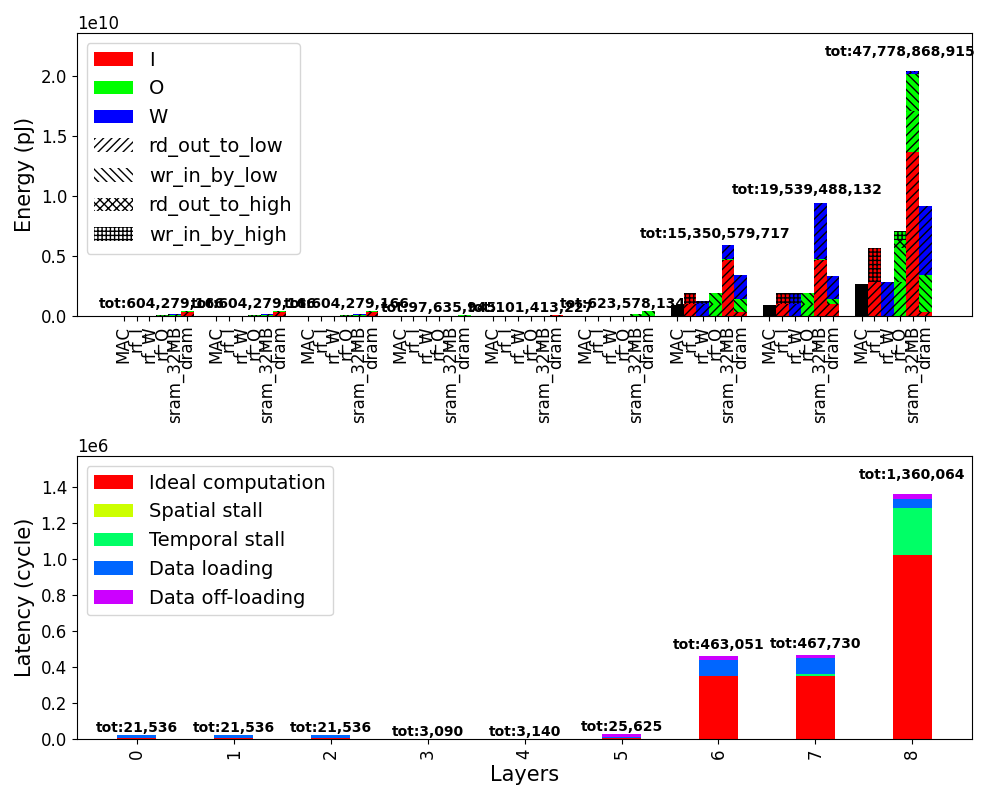
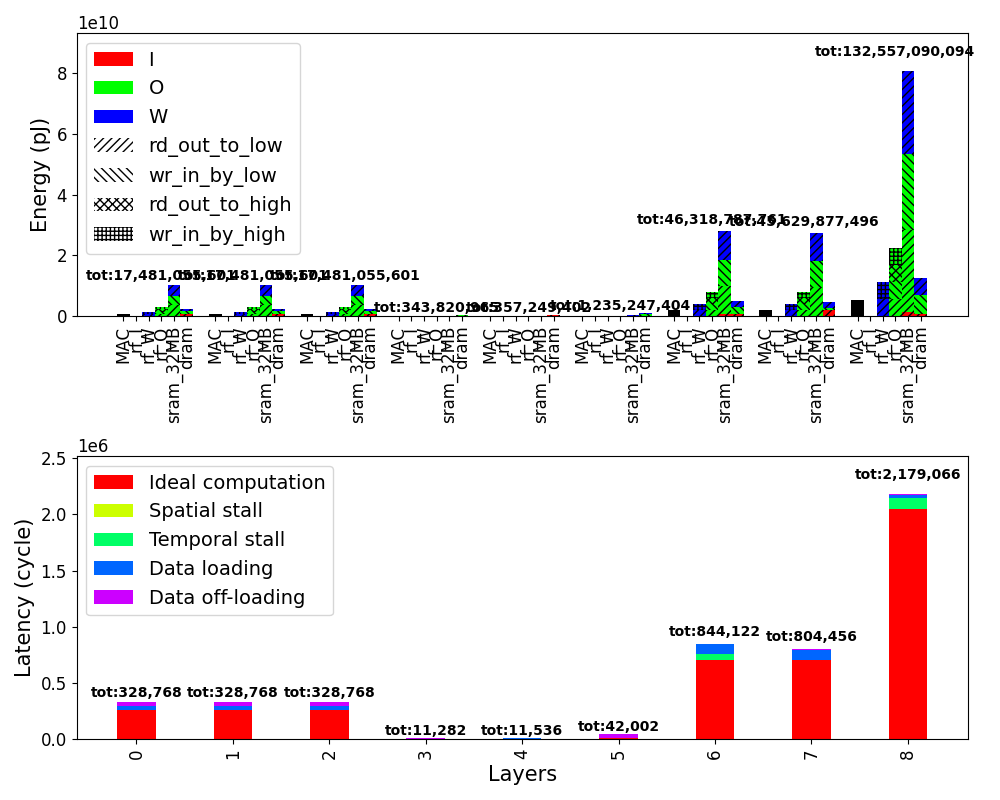
Make linear projections for all heads a single matmul, parameterize batch_size

diff --git a/src/config.py b/src/config.py
@@ -1,21 +1,21 @@
+from copy import deepcopy
 from dataclasses import dataclass
+
+BATCH_SIZE = 8
 
 
 class LLMConfig:
     def __init__(
         self,
-        batch_size: int,
         seq_len: int,
         embedding_dim: int,
         dim_ff: int,
         num_head: int,
         num_layer: int,
-        head_size: int | None = None,
+        batch_size: int = 1,
         vocab_size: int = 1000,
         name: str = "",
     ):
-        if head_size is None:
-            head_size = embedding_dim // num_head
 
         self.batch_size = batch_size
         self.seq_len = seq_len
@@ -23,24 +23,36 @@ class LLMConfig:
         self.dim_ff = dim_ff
         self.num_head = num_head
         self.num_layer = num_layer
-        self.head_size = head_size
+        self.head_size = embedding_dim // num_head
         self.vocab_size = vocab_size
-        self.name = name
+        self.__name = name
+
+    @property
+    def name(self):
+        return f"{self.__name}_B={self.batch_size}"
 
     def to_simulatable_config(self):
         """Return a new LLMConfig instance with reduced parameters to make the simulation go faster. The results
         can then be multiplied to get the actual energy/latency values"""
-        return LLMConfig(
-            batch_size=self.batch_size,
-            seq_len=self.seq_len // 2,  # Prefill half the context window
-            embedding_dim=self.embedding_dim,
-            dim_ff=self.dim_ff,
-            num_head=1,
-            num_layer=1,
-            # Recompute head size, consider 1 big MatMu for all heads simultaneously
-            vocab_size=self.vocab_size,
-            name=self.name,
-        )
+        cfg = deepcopy(self)
+        cfg.seq_len = cfg.seq_len // 2  # Prefill half the context window
+        cfg.num_layer = 1
+        cfg.num_head = 1  # Keep the original `head_size`!
+        return cfg
+
+    def get_post_simulation_factor(self, layer: str):
+        """The model is simulated with reduced parameters i.e. only one layer. This function returns the factor with
+        which the results for the given layer have to be multiplied in order to come to the result for the full model
+        Moreover, the results are normalized to a single inference instead of a full batch"""
+        if "_proj" in layer:
+            # K, Q, V and output projection
+            return 4 * self.num_layer / self.batch_size
+        elif "mul_" in layer:
+            return self.num_head * self.num_layer / self.batch_size
+        elif "feedforward_" in layer:
+            return self.num_layer / self.batch_size
+        else:
+            return 1
 
 
 @dataclass
@@ -58,7 +70,7 @@ W4A8 = QuantConfig(4, 8)
 W4A16 = QuantConfig(4, 16)
 
 LLAMA_1_7B = LLMConfig(
-    batch_size=1,
+    batch_size=BATCH_SIZE,
     seq_len=2048,
     embedding_dim=4096,
     dim_ff=11_008,
@@ -69,7 +81,7 @@ LLAMA_1_7B = LLMConfig(
 )
 
 LLAMA_1_13B = LLMConfig(
-    batch_size=1,
+    batch_size=BATCH_SIZE,
     seq_len=2048,
     embedding_dim=5120,
     dim_ff=13_824,
@@ -80,7 +92,7 @@ LLAMA_1_13B = LLMConfig(
 )
 
 LLAMA_1_30B = LLMConfig(
-    batch_size=1,
+    batch_size=BATCH_SIZE,
     seq_len=2048,
     embedding_dim=6_656,
     dim_ff=17_920,
@@ -91,7 +103,7 @@ LLAMA_1_30B = LLMConfig(
 )
 
 LLAMA_2_7B = LLMConfig(
-    batch_size=1,
+    batch_size=BATCH_SIZE,
     seq_len=4096,
     embedding_dim=4096,
     dim_ff=11_008,
@@ -102,7 +114,7 @@ LLAMA_2_7B = LLMConfig(
 )
 
 LLAMA_2_13B = LLMConfig(
-    batch_size=1,
+    batch_size=BATCH_SIZE,
     seq_len=4096,
     embedding_dim=5120,
     dim_ff=13_824,
@@ -114,7 +126,7 @@ LLAMA_2_13B = LLMConfig(
 
 
 OPT_125M = LLMConfig(
-    batch_size=1,
+    batch_size=BATCH_SIZE,
     seq_len=2048,
     embedding_dim=768,
     dim_ff=3072,
@@ -126,7 +138,7 @@ OPT_125M = LLMConfig(
 
 
 OPT_1_3B = LLMConfig(
-    batch_size=1,
+    batch_size=BATCH_SIZE,
     seq_len=2048,
     embedding_dim=2048,
     dim_ff=8_192,
@@ -137,7 +149,7 @@ OPT_1_3B = LLMConfig(
 )
 
 OPT_2_7B = LLMConfig(
-    batch_size=1,
+    batch_size=BATCH_SIZE,
     seq_len=2048,
     embedding_dim=2560,
     dim_ff=10240,
@@ -148,7 +160,7 @@ OPT_2_7B = LLMConfig(
 )
 
 OPT_6_7B = LLMConfig(
-    batch_size=1,
+    batch_size=BATCH_SIZE,
     seq_len=2048,
     embedding_dim=4096,
     dim_ff=16384,
@@ -159,7 +171,7 @@ OPT_6_7B = LLMConfig(
 )
 
 OPT_13B = LLMConfig(
-    batch_size=1,
+    batch_size=BATCH_SIZE,
     seq_len=2048,
     embedding_dim=5120,
     dim_ff=20480,
@@ -170,7 +182,7 @@ OPT_13B = LLMConfig(
 )
 
 OPT_30B = LLMConfig(
-    batch_size=1,
+    batch_size=BATCH_SIZE,
     seq_len=2048,
     embedding_dim=7_168,
     dim_ff=28_672,
@@ -181,7 +193,7 @@ OPT_30B = LLMConfig(
 )
 
 GPT3_175B = LLMConfig(
-    batch_size=1,
+    batch_size=BATCH_SIZE,
     seq_len=2048,
     embedding_dim=12_288,
     dim_ff=49_152,

diff --git a/experiments.py b/experiments.py
@@ -8,14 +8,14 @@ from zigzag.visualization.results.plot_cme import (
 )
 
 from export_onnx import export_transformer_to_onnx
-from src.config import ALL_MODELS, LLAMA_1_7B, W4A16, W4A8, W8A8, LLMConfig
+from src.config import ALL_MODELS, BATCH_SIZE, LLAMA_1_7B, W4A16, W4A8, W8A8, LLMConfig
 
 models = ALL_MODELS
 quants = [W8A8, W4A16]  # , W4A8]
-accelerators = ["generic_array"]  # , "tpu_big_sram"]
+accelerators = ["generic_array"]
+batch_sizes = [1, BATCH_SIZE]
 
 mapping_path = "inputs/mapping/output_st_256.yaml"
-
 layers_to_plot = ["key_proj", "mul_qk_t", "mul_logits", "feedforward_expand", "feedforward_contract"]
 
 
@@ -23,21 +23,9 @@ def accelerator_path(accelerator: str):
     return f"inputs/hardware/{accelerator}.yaml"
 
 
-def get_post_simulation_factor(cfg: LLMConfig, layer: str):
-    """The model is simulated with reduced parameters i.e. only one layer. This function returns the factor with which
-    the results for the given layer have to be multiplied in order to come to the result for the full model"""
-    if "_proj" in layer:
-        # K, Q, V and output projection
-        return 4 * cfg.num_layer
-    elif "mul_" in layer:
-        return cfg.num_head * cfg.num_layer
-    elif "feedforward_" in layer:
-        return cfg.num_layer
-    else:
-        return 1
-
-
 def generalize_layer_name(layer: str):
+    """Give the layer name a prettier format, and generalize single layers to full LLM. e.g. key projection -> all
+    linear projections"""
     if "key_proj" in layer:
         return "linear projection"
     elif "mul_qk_t" in layer:
@@ -53,12 +41,16 @@ def generalize_layer_name(layer: str):
 
 
 if __name__ == "__main__":
-    for model, accelerator, quant in itertools.product(models, accelerators, quants):
+    for model, accelerator, quant, batch_size in itertools.product(models, accelerators, quants, batch_sizes):
+
+        # Overwrite batch size for the experiment
+        model.batch_size = batch_size
 
         experiment_name = f"{model.name}_{quant.name}_{accelerator}"
         dump_path = f"outputs/{experiment_name}"
         onnx_path = f"outputs/onnx/{model.name}_{quant.name}.onnx"
         pickle_filename = f"{dump_path}/cmes.pickle"
+        print(f"--- Running {experiment_name} ---")
 
         if not os.path.exists(onnx_path):
             export_transformer_to_onnx(model.to_simulatable_config(), quant, path=onnx_path)
@@ -70,7 +62,7 @@ if __name__ == "__main__":
             opt="EDP",
             dump_folder=dump_path,
             pickle_filename=pickle_filename,
-            nb_spatial_mappings_generated=1,
+            nb_spatial_mappings_generated=3,
         )
 
         with open(pickle_filename, "rb") as fp:
@@ -81,8 +73,8 @@ if __name__ == "__main__":
         bar_plot_cost_model_evaluations_breakdown(cmes, save_path=f"{dump_path}/all_layers_single.png")
         bar_plot_cost_model_evaluations_breakdown(cmes_to_plot, save_path=f"{dump_path}/interesting_layers_single.png")
 
-        # Compute full results
-        complete_result_cmes = [cme * get_post_simulation_factor(model, cme.layer.name) for cme in cmes_to_plot]
+        # Compute generalized results for full LLM
+        complete_result_cmes = [cme * model.get_post_simulation_factor(cme.layer.name) for cme in cmes_to_plot]
         bar_plot_cost_model_evaluations_breakdown(
             complete_result_cmes, save_path=f"{dump_path}/interesting_layers_full.png"
         )
@@ -97,6 +89,10 @@ if __name__ == "__main__":
             f.write("Layers shown in plot interesting_layers_single:\n")
             for idx, cme in enumerate(cmes_to_plot):
                 f.write(f"\t{idx}: {cme.layer.name}\n")
+            f.write(
+                "\tNote: the linear projection shows a single projection (e.g. key) for ALL heads. The MatMuls "
+                "(attention and logits) are shown for a SINGLE head.\n"
+            )
             f.write("Components shown in plot interesting_layers_full:\n")
             for idx, cme in enumerate(cmes_to_plot):
                 f.write(f"\t{idx}: {generalize_layer_name(cme.layer.name)}\n")

diff --git a/src/transformer_model.py b/src/transformer_model.py
@@ -25,12 +25,8 @@ class Head(nn.Module):
 
     def __init__(self, cfg: LLMConfig):
         super().__init__()  # type: ignore
-        self.head_size = cfg.head_size
+        self.cfg = cfg
 
-        # Operations (ONNX will keep the names)
-        self.key_proj = nn.Linear(cfg.embedding_dim, cfg.head_size, bias=False)
-        self.query_proj = nn.Linear(cfg.embedding_dim, cfg.head_size, bias=False)
-        self.value_proj = nn.Linear(cfg.embedding_dim, cfg.head_size, bias=False)
         self.mul_qk_t = Matmul()
         self.mul_logits_v = Matmul()
 
@@ -38,15 +34,13 @@ class Head(nn.Module):
         self.register_buffer("tril", torch.tril(torch.ones(cfg.seq_len, cfg.seq_len)))
         self.dropout = nn.Dropout(dropout)
 
-    def forward(self, x: Tensor):
-        _, L, _ = x.shape
-        key: Tensor = self.key_proj(x)  # (B, L, d_h)
-        query: Tensor = self.query_proj(x)  # (B, L, d_h)
-        value: Tensor = self.value_proj(x)  # (B, L, d_h)
+    def forward(self, key: Tensor, query: Tensor, value: Tensor):
+
+        _, L, _ = key.shape
         key_transpose = key.transpose(-2, -1)
 
         attention: Tensor = self.mul_qk_t(query, key_transpose)  # (B, L, d_h) @ (B, d_h, L) -> (B, L, L)
-        attention = attention / math.sqrt(self.head_size)
+        attention = attention / math.sqrt(self.cfg.head_size)
         attention = attention.masked_fill(self.tril[:L, :L] == 0, float("-inf"))  # (B, L, L)
 
         logits = F.softmax(attention, dim=-1)  # (B, L, L)
@@ -59,13 +53,37 @@ class MultiHeadAttention(nn.Module):
 
     def __init__(self, cfg: LLMConfig):
         super().__init__()  # type: ignore
+        self.cfg = cfg
         self.heads = nn.ModuleList([Head(cfg) for _ in range(cfg.num_head)])
-        # NOTE normally, `num_head * head_size` equals `embedding_dim`
+
+        # We compute each linear projection as one big MatMul to ensure spatial array utilization
+        self.key_proj = nn.Linear(cfg.embedding_dim, cfg.embedding_dim, bias=False)
+        self.query_proj = nn.Linear(cfg.embedding_dim, cfg.embedding_dim, bias=False)
+        self.value_proj = nn.Linear(cfg.embedding_dim, cfg.embedding_dim, bias=False)
+
+        # NOTE  `num_head * head_size` must equal `embedding_dim`
         self.out_proj = nn.Linear(cfg.num_head * cfg.head_size, cfg.embedding_dim, bias=False)
         self.dropout = nn.Dropout(dropout)
 
     def forward(self, x: Tensor):
-        out = torch.cat([h(x) for h in self.heads], dim=-1)
+        # `cfg.num_head` might be changed to shorten simulation time -> recompute the correct dimension
+        num_head_tensors = self.cfg.embedding_dim // self.cfg.head_size
+
+        # (B, L, num_head_tensors, d_h)
+        key: Tensor = self.key_proj(x).reshape(
+            self.cfg.batch_size, self.cfg.seq_len, num_head_tensors, self.cfg.head_size
+        )
+        query: Tensor = self.query_proj(x).reshape(
+            self.cfg.batch_size, self.cfg.seq_len, num_head_tensors, self.cfg.head_size
+        )
+        value: Tensor = self.value_proj(x).reshape(
+            self.cfg.batch_size, self.cfg.seq_len, num_head_tensors, self.cfg.head_size
+        )
+
+        out = torch.cat(
+            [head(key[:, :, idx, :], query[:, :, idx, :], value[:, :, idx, :]) for idx, head in enumerate(self.heads)],
+            dim=-1,
+        )
         out = self.out_proj(out)
         out = self.dropout(out)
         return out

diff --git a/main.py b/main.py
@@ -1,6 +1,7 @@
 from datetime import datetime
 import os
 import pickle
+from sympy import false
 from zigzag import api
 from zigzag.visualization.results.plot_cme import (
     bar_plot_cost_model_evaluations_breakdown,
@@ -10,17 +11,16 @@ from export_onnx import export_transformer_to_onnx
 from src.config import GPT3_175B, LLAMA_1_7B, W4A16, W4A8, W8A8
 
 model = LLAMA_1_7B
-model.seq_len = model.seq_len // 4
 quant = W4A16
 output_dir = f"/outputs/{datetime.now()}"
-workload_path = f"outputs/{model.name}_{quant.name}_L={model.seq_len}.onnx"
+workload_path = f"outputs/{model.name}_{quant.name}.onnx"
 accelerator_path = "inputs/hardware/generic_array.yaml"
 mapping_path = "inputs/mapping/empty.yaml"
 pickle_filename = "outputs/TPU-cmes.pickle"
 RE_RUN = True
 
 if RE_RUN:
-    if not os.path.exists(workload_path):
+    if not os.path.exists(workload_path) or True:
         export_transformer_to_onnx(model.to_simulatable_config(), quant, path=workload_path)
     energy, latency, cmes = api.get_hardware_performance_zigzag(
         workload=workload_path,
@@ -28,7 +28,7 @@ if RE_RUN:
         mapping=mapping_path,
         opt="energy",
         pickle_filename=pickle_filename,
-        nb_spatial_mappings_generated=6,
+        nb_spatial_mappings_generated=1,
     )
     print(f"Total network energy = {energy:.2e} pJ")
     print(f"Total network latency = {latency:.2e} cycles")
